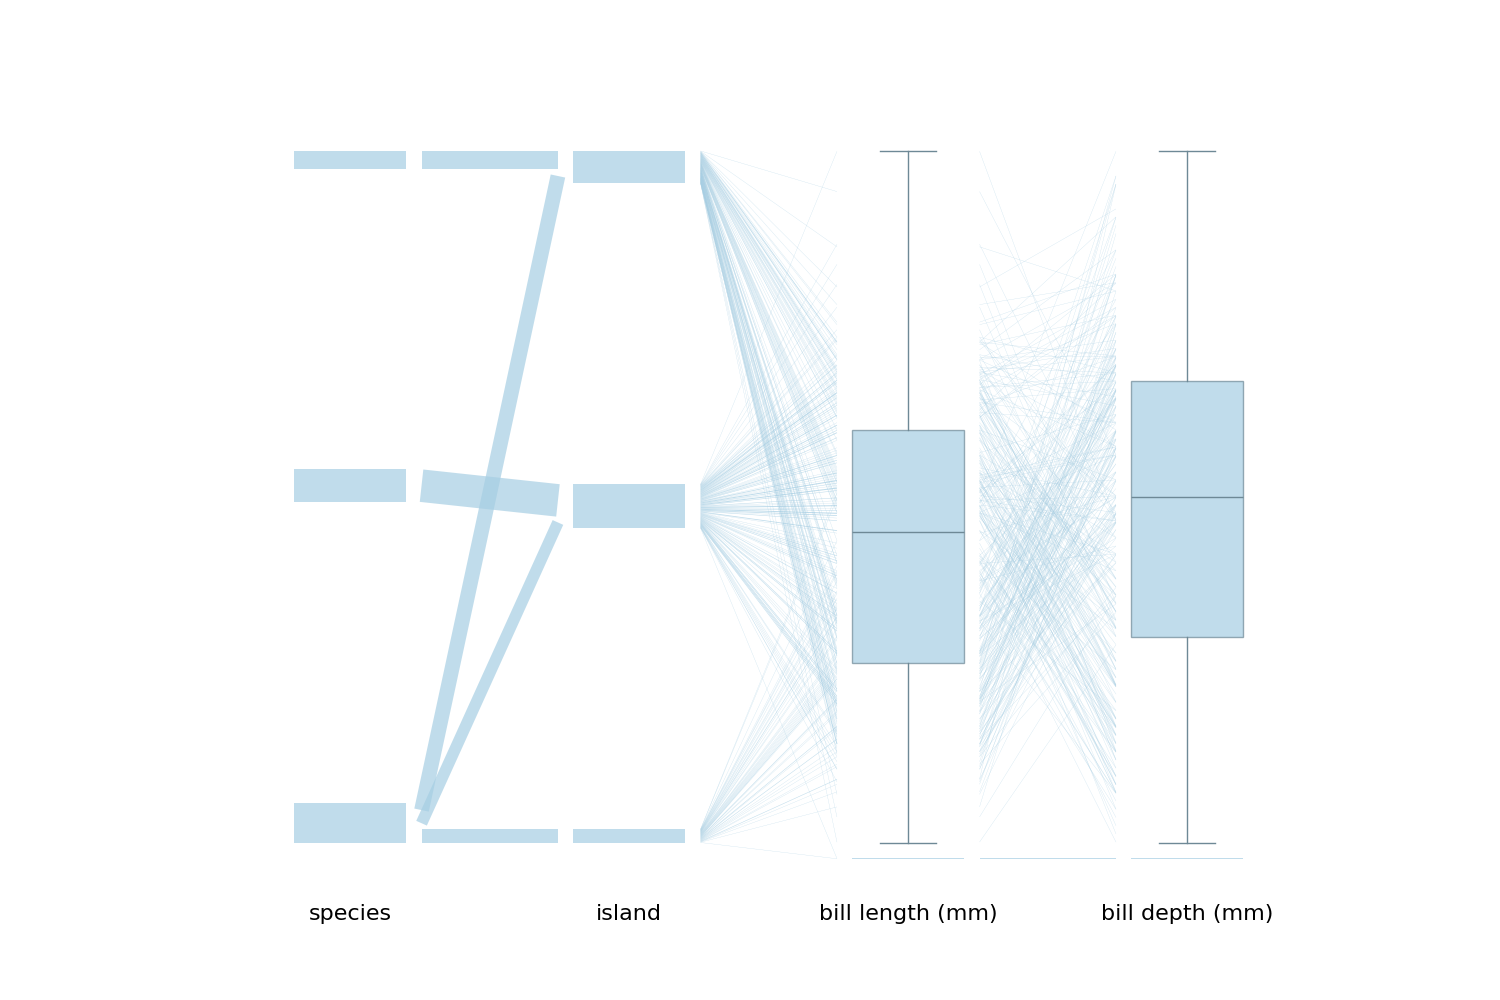
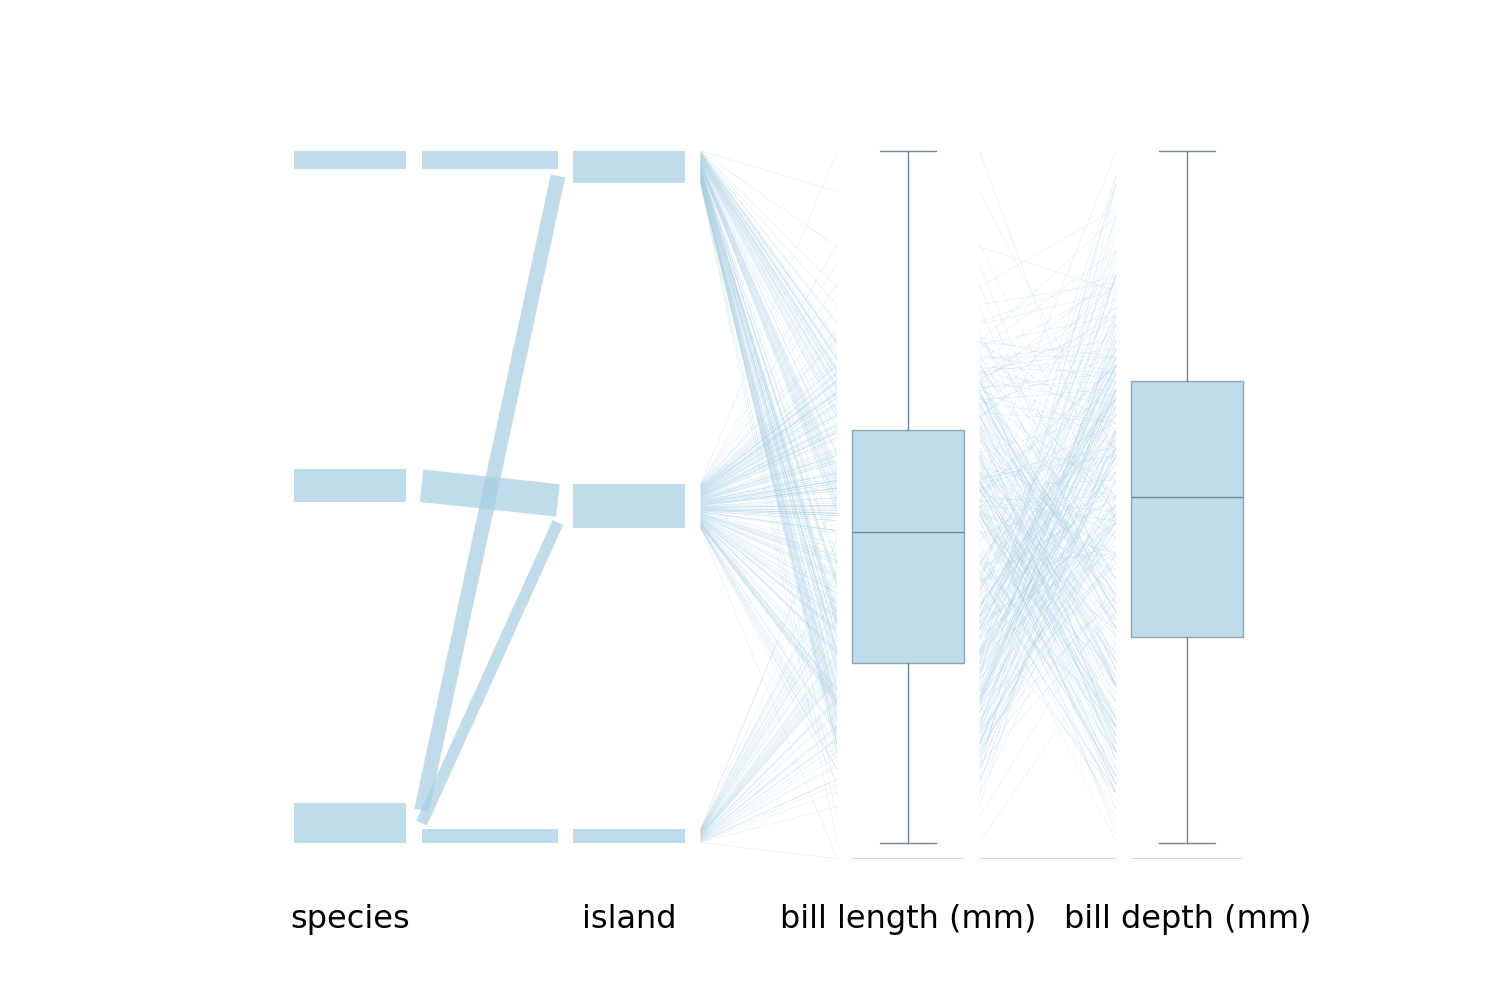
update figures to be wider

Changed region(s): [[0.5213, 0.899, 0.8893, 0.93], [0.184, 0.899, 0.276, 0.93], [0.3987, 0.899, 0.46, 0.93]]

diff --git a/jss_paper.py b/jss_paper.py
@@ -14,16 +14,20 @@ var_list = ["species", "island", "bill length (mm)", "bill depth (mm)"]
 
 label_options = {}
 for var in var_list:
-    label_options[var] = {'fontsize': 16}
+    label_options[var] = {'fontsize': 18}
 
-def minimal_example():
-    hammock = hammock_plot.Hammock(df_penguins)
-    ax = hammock.plot(
-        var=var_list,
-        display_figure=False,
-        missing=True,
-        save_path="figures/minimal_example.png",
-    )
+large_label_options = {}
+for var in var_list:
+    large_label_options[var] = {'fontsize': 23}
+
+# def minimal_example():
+#     hammock = hammock_plot.Hammock(df_penguins)
+#     ax = hammock.plot(
+#         var=var_list,
+#         display_figure=False,
+#         missing=True,
+#         save_path="figures/minimal_example.png",
+#     )
 
 def modified_layout():
     hammock = hammock_plot.Hammock(df_penguins)
@@ -32,9 +36,10 @@ def modified_layout():
         display_figure=False,
         missing=True,
         uni_vfill=0.15,
-        label_options=label_options,
-        uni_hfill=0.4,
-        save_path="figures/modified_layout.png",
+        label_options=large_label_options,
+        uni_hfill=0.5,
+        width=18,
+        save_path="figures/minimal_example.png",
     )
 
 def boxplots():
@@ -44,7 +49,7 @@ def boxplots():
         display_figure=False,
         missing=True,
         uni_vfill=0.15,
-        label_options=label_options,
+        label_options=large_label_options,
         label=False,
         uni_hfill=0.4,
         save_path="figures/boxplots.png",
@@ -59,7 +64,7 @@ def violinplots():
         missing=True,
         label=False,
         uni_vfill=0.15,
-        label_options=label_options,
+        label_options=large_label_options,
         uni_hfill=0.4,
         save_path="figures/violinplots.png",
         display_type={"bill length (mm)": "violin", "bill depth (mm)": "violin"},
@@ -73,7 +78,8 @@ def same_scale():
         missing=True,
         uni_vfill=0.15,
         label_options=label_options,
-        uni_hfill=0.4,
+        uni_hfill=0.5,
+        width=18,
         save_path="figures/same_scale.png",
         same_scale=["bill length (mm)", "bill depth (mm)"],
         display_type={"bill length (mm)": "box", "bill depth (mm)": "box"},
@@ -83,18 +89,18 @@ def highlighting():
     hammock = hammock_plot.Hammock(df_penguins)
     ax = hammock.plot(
         var= var_list,
-        hi_var="island",
-        hi_value=["Torgersen", "Biscoe"],
+        hi_var="bill length (mm)",
+        hi_value="x>44.10",
         display_figure=False,
         missing=True,
         uni_vfill=0.15,
         label_options=label_options,
-        uni_hfill=0.4,
+        uni_hfill=0.5,
+        width=18,
         save_path="figures/highlighting.png",
         display_type={"bill length (mm)": "box", "bill depth (mm)": "box"},
     )
 
-minimal_example()
 modified_layout()
 boxplots()
 violinplots()
